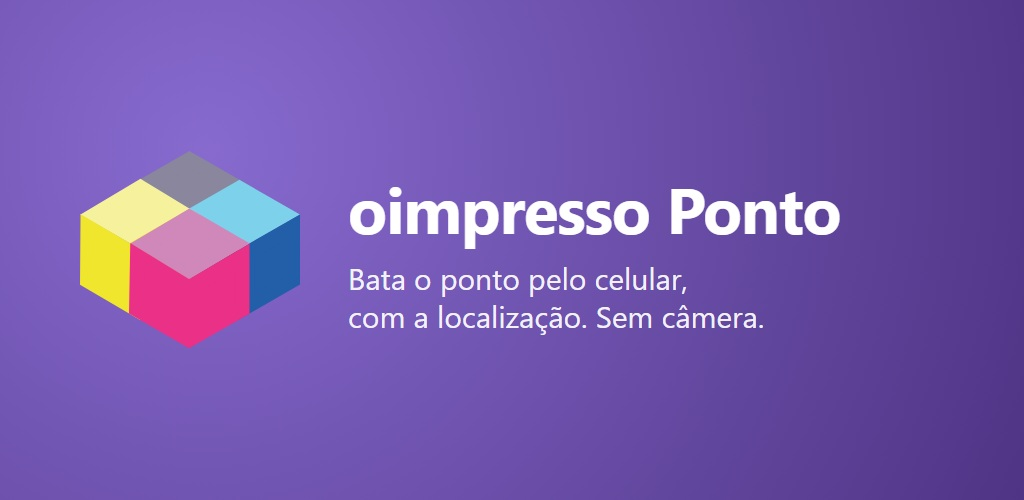
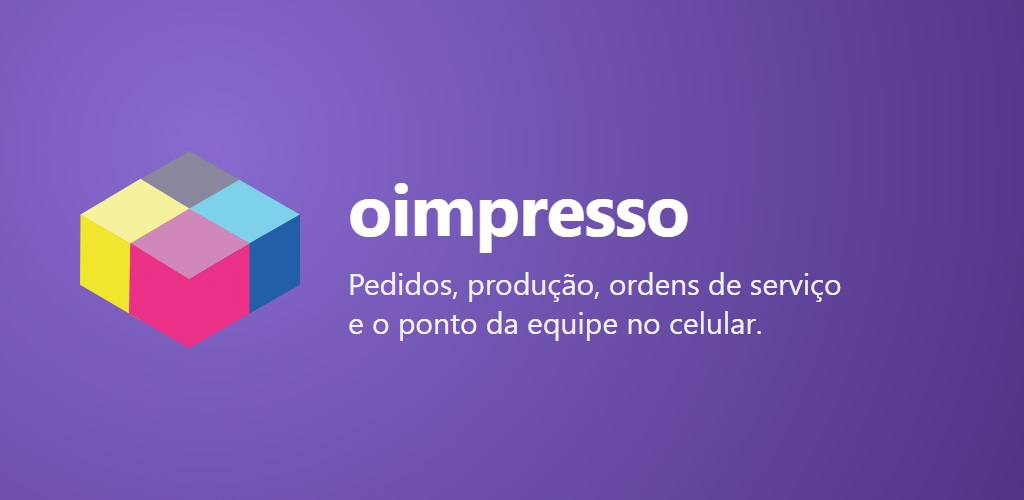
docs(mobile): textos e privacidade das lojas para o app único (ERP + ponto)
[W] 2026-10-01: o app das lojas junta o ERP no celular e o ponto. Nome "oimpresso",
descrições cobrindo os dois, Data Safety/App Privacy com fotos de OS, dados de clientes
e push; aponta expo-audio/expo-video sem uso para remover antes do build.

Changed region(s): [[0.3438, 0.54, 0.8438, 0.69], [0.3438, 0.36, 0.8438, 0.51]]

diff --git a/mobile/store-assets/textos/privacidade-lojas.md b/mobile/store-assets/textos/privacidade-lojas.md
@@ -1,45 +1,51 @@
-# oimpresso Ponto — Data Safety (Google) e App Privacy (Apple) · RASCUNHO
+# oimpresso — Data Safety (Google) e App Privacy (Apple) · RASCUNHO
 
-> Baseado no código em main (2026-10-01): `MobileMarcacaoController@registrar` recebe `lat`, `lng`, `accuracy`,
-> `device_uuid`, `timestamp_device`; grava latitude/longitude e o identificador do aparelho; a precisão é usada para
-> recusar sinal fraco e não é gravada (RUNBOOK-mobile §4). Sem câmera/biometria (ADR 0383).
-> ⚠ Confirmar com a sessão do APP CAPACITOR: há SDK de crash/analytics/push (Firebase)? Se houver, entra
-> "Diagnóstico" e, com push, "Identificadores do dispositivo" já cobre o token. Confirmar com a sessão LEGAL o prazo de guarda.
+> App único: ERP no celular + ponto ([W] 2026-10-01). Levantado do código em main (2026-10-01):
+> - Ponto (`MobileMarcacaoController@registrar`): `lat`, `lng`, `accuracy` (não gravada), `device_uuid`, `timestamp_device`.
+> - App Expo: login (`expo-secure-store`), push (`expo-notifications`, token do aparelho), fotos da galeria em OS
+>   (`expo-image-picker` em `app/oss/[id].tsx`), cadastro de clientes (nome, CPF/CNPJ, contato).
+> - `expo-audio` e `expo-video` estão no `package.json`/`app.config.ts` mas **nenhuma tela usa** — remover antes do build
+>   (a string de microfone em inglês é motivo de rejeição Apple 5.1.1 e obrigaria declarar "Áudio").
+> - ⚠ Confirmar no build: há SDK de crash/analytics? Se sim, entra "Diagnóstico". Prazo de guarda: sessão LEGAL.
 
-## Dados coletados
+## O que entra
 
-| Dado | Por quê | Obrigatório? | Ligado à pessoa? | Compartilhado? |
-|---|---|---|---|---|
-| Localização **precisa** (lat/lng) | registrar onde a marcação foi feita | sim | sim | não (vai ao empregador, que é o controlador — não conta como terceiro) |
-| ID do aparelho (`device_uuid` gerado pelo app) | impedir troca de aparelho / fraude | sim | sim | não |
-| Nome, e-mail/usuário, matrícula | login e identificação no espelho | sim (criado pela empresa) | sim | não |
-| Registros de ponto (horários) | finalidade principal | sim | sim | não |
-| Texto da justificativa | pedido ao gestor | não (opcional) | sim | não |
+| Dado | Onde | Obrigatório? | Finalidade |
+|---|---|---|---|
+| Localização precisa | ponto, só na batida | sim (para bater ponto) | funcionalidade; prevenção de fraude |
+| ID do aparelho (`device_uuid`) + token de push | ponto; notificações | sim | prevenção de fraude; funcionalidade |
+| Nome, e-mail, ID de usuário | login | sim | funcionalidade; gerenciamento de conta |
+| Dados de clientes da empresa (nome, CPF/CNPJ, telefone, e-mail, endereço) | cadastro de clientes | não (o usuário digita) | funcionalidade |
+| Fotos | anexos de OS, escolhidas pelo usuário | não | funcionalidade |
+| Registros de ponto, justificativas, notas de serviço, tarefas | ponto; OS; tarefas | varia | funcionalidade |
+| Transações da empresa (vendas, pagamentos) | vendas, financeiro | — | dado da empresa, não do usuário — ver nota abaixo |
 
-Coleta só **com o app aberto, no momento da batida** — sem localização em segundo plano.
+Tudo é ligado à pessoa, nada é vendido, usado para publicidade ou rastreamento. Os dados vão para o servidor do
+oimpresso (operador) por conta da empresa cliente (controladora). Sem localização em segundo plano.
 
 ## Google Play — Data Safety (tela a tela)
 1. **Coleta ou compartilha dados?** Sim.
-2. **Criptografado em trânsito?** Sim (HTTPS). **Usuário pode pedir exclusão?** Sim — link da página de exclusão (sessão PRIVACIDADE). Observação a declarar: registros de ponto são mantidos pelo prazo legal (Portaria MTP 671/2021).
-3. **Tipos de dados** — marcar:
-   - Localização → **Localização precisa** — Coletado · NÃO compartilhado · Obrigatório · Finalidade: **Funcionalidade do app** (e **Prevenção de fraude, segurança e conformidade**).
-   - Informações pessoais → **Nome**, **Endereço de e-mail**, **IDs de usuário** — Coletado · Obrigatório · Funcionalidade do app + Gerenciamento de conta.
-   - Identificadores do dispositivo ou outros → **ID do dispositivo** — Coletado · Obrigatório · Prevenção de fraude, segurança e conformidade.
-   - Atividade no app → **Outro conteúdo gerado pelo usuário** (justificativa) — Coletado · Opcional · Funcionalidade do app.
-   - **Não** marcar: fotos, áudio, contatos, financeiro, saúde, mensagens, histórico web, publicidade.
-4. **Processamento efêmero?** Não (é gravado).
-5. Política de privacidade: URL da sessão PRIVACIDADE.
-6. **Permissão de localização em segundo plano:** NÃO pedir (`ACCESS_BACKGROUND_LOCATION` fora do manifest) — assim não cai na declaração de localização em segundo plano.
+2. **Criptografado em trânsito?** Sim (HTTPS). **Pedido de exclusão?** Sim — URL da página de exclusão (sessão PRIVACIDADE); declarar que registros de ponto e fiscais são mantidos pelo prazo legal.
+3. **Tipos (todos: Coletado · NÃO compartilhado · não efêmero):**
+   - Localização → **Localização precisa** — Obrigatório · Funcionalidade do app; Prevenção de fraude, segurança e conformidade.
+   - Informações pessoais → **Nome**, **Endereço de e-mail**, **IDs de usuário** — Obrigatório · Funcionalidade; Gerenciamento de conta.
+   - Informações pessoais → **Número de telefone**, **Endereço**, **Outras informações** (CPF/CNPJ) — Opcional · Funcionalidade (dados dos clientes cadastrados).
+   - Fotos e vídeos → **Fotos** — Opcional · Funcionalidade.
+   - Atividade no app → **Outro conteúdo gerado pelo usuário** (justificativas, notas de OS, tarefas) — Opcional · Funcionalidade.
+   - Identificadores do dispositivo ou outros → **ID do dispositivo** — Obrigatório · Prevenção de fraude; Funcionalidade (push).
+   - Informações financeiras → ⚠ decidir com a sessão LEGAL: vendas e pagamentos são da **empresa**, não do usuário; "Histórico de compras" da Google é do usuário. Recomendação: não marcar, e explicar na política de privacidade.
+4. **Permissões:** `ACCESS_FINE_LOCATION` (sim), `ACCESS_BACKGROUND_LOCATION` (**não**), `POST_NOTIFICATIONS` (sim), `RECORD_AUDIO` (**remover**), `CAMERA` (não usado).
 
 ## Apple — App Privacy (tela a tela)
-1. **Coleta dados?** Sim.
-2. Tipos:
-   - **Location → Precise Location**: App Functionality · **Linked to the user** · **Not used for tracking**.
-   - **Identifiers → Device ID**: App Functionality · Linked · Not tracking.
-   - **Contact Info → Name, Email Address**: App Functionality · Linked · Not tracking.
-   - **User Content → Other User Content** (justificativa): App Functionality · Linked · Not tracking.
-3. **Tracking (ATT)?** Não — nenhum SDK de publicidade, sem prompt ATT.
-4. `Info.plist`: só `NSLocationWhenInUseUsageDescription` = "Usamos a localização somente quando você bate o ponto, para registrar onde a marcação foi feita." Sem `NSLocationAlways…`, sem `NSCameraUsageDescription`.
+Todos: **Linked to the user** · **Not used for tracking** · finalidade **App Functionality**.
+- Location → **Precise Location**
+- Contact Info → **Name**, **Email Address**, **Phone Number**, **Physical Address**
+- Identifiers → **User ID**, **Device ID**
+- User Content → **Photos or Videos**, **Other User Content**
+- Sensitive Info → não marcar (CPF/CNPJ não é "sensível" no sentido Apple: saúde, religião etc.).
+- **Tracking (ATT):** não. Sem prompt ATT.
 
-## Texto do pedido de permissão (Android e iOS — mesmo texto)
-"O oimpresso Ponto usa a localização somente no momento em que você bate o ponto, para registrar onde a marcação foi feita."
+`Info.plist` (via `app.config.ts`, sessão iOS):
+- `NSLocationWhenInUseUsageDescription`: "O oimpresso usa a localização somente quando você bate o ponto, para registrar onde a marcação foi feita."
+- `NSPhotoLibraryUsageDescription`: "O oimpresso acessa as suas fotos somente quando você escolhe uma imagem para anexar a uma ordem de serviço."
+- **Remover** `NSMicrophoneUsageDescription` (expo-audio sem uso).

diff --git a/mobile/store-assets/textos/listagem-pt-BR.md b/mobile/store-assets/textos/listagem-pt-BR.md
@@ -1,46 +1,48 @@
-# oimpresso Ponto — textos das lojas (pt-BR) · RASCUNHO para [W] revisar
+# oimpresso — textos das lojas (pt-BR) · RASCUNHO para [W] revisar
 
-> Limites conferidos em 2026-10-01 (Play Console Help + App Store Connect). Contagem de caracteres ao lado.
+> Escopo decidido por [W] em 2026-10-01: **um app só**, o ERP no celular (app Expo `mobile/`, `com.oimpresso.app`)
+> **junto com o ponto** (REP-P do `/ponto/mobile`). Limites conferidos em 2026-10-01 (Play Console Help + App Store Connect).
 > Não usar "certificado", "homologado" nem "assinado" até a sessão LEGAL confirmar (ADR 0413 tirou "assinada").
+> Só listar o que o build enviado faz de verdade — se o ponto ainda não estiver no build, tirar o bloco do ponto.
 
 ## Comum
-- **Nome do app:** `oimpresso Ponto` (15/30 — Play e Apple) — ⚠ a decidir com [W]: o app Expo (`com.oimpresso.app`) também tem pedidos, produção, oficina; se for publicado o app inteiro, o nome e a descrição mudam
+- **Nome do app:** `oimpresso` (9/30) — alternativa se o nome estiver ocupado na Apple: `oimpresso ERP` (13/30)
 - **Categoria:** Negócios (Play: Business · Apple: primária Business, secundária Productivity)
 - **Público:** adultos, uso profissional (B2B). Sem anúncios. Sem compras no app.
-- **Login exigido:** sim — conta criada pela empresa (empregador). Sem cadastro aberto.
+- **Login exigido:** sim — conta criada pela empresa. Sem cadastro aberto.
 
 ## Google Play
-- **Título:** `oimpresso Ponto` (15/30)
-- **Descrição curta (80):** `Bata o ponto pelo celular com a localização, no sistema da sua empresa.` (71/80)
+- **Título:** `oimpresso` (9/30)
+- **Descrição curta:** `Pedidos, produção, ordens de serviço e ponto da sua empresa no celular.` (71/80)
 - **Descrição completa (≤4000):**
 
-O oimpresso Ponto é o registro de ponto pelo celular para quem trabalha em empresas que usam o ERP oimpresso.
+O oimpresso é o ERP da sua empresa no celular. Acompanhe vendas, produção e ordens de serviço de onde estiver, e registre o ponto com a localização do aparelho.
 
-Use o login fornecido pela sua empresa e registre entrada, saída para o almoço, retorno e saída. Cada marcação é enviada junto com a localização do aparelho no momento do registro e recebe um número sequencial (NSR) gerado pelo servidor. Depois de feita, a marcação não pode ser alterada nem apagada.
+Gestão no celular:
+• Vendas, orçamentos e pedidos — consulte, acompanhe e faça uma venda rápida.
+• Produção — veja em que etapa está cada trabalho.
+• Ordens de serviço e manutenção — status, equipamentos e fotos do serviço.
+• Clientes e produtos — consulta e cadastro.
+• Estoque, financeiro, fiscal e relatórios — os números do dia na mão.
+• Tarefas e notificações da equipe.
 
-O que você pode fazer:
-• Bater o ponto: entrada, saída para almoço, retorno do almoço e saída.
-• Ver as marcações de hoje com o número de cada registro.
-• Consultar o seu espelho do mês: horas trabalhadas e o dia a dia.
-• Justificar uma falta, atraso ou esquecimento — o pedido vai para aprovação do seu gestor.
+Ponto pelo celular:
+• Bata o ponto: entrada, saída para almoço, retorno e saída. Cada marcação vai com a localização do aparelho no momento do registro e recebe um número sequencial (NSR) gerado pelo servidor; depois de feita, não pode ser alterada.
+• Veja as marcações de hoje e o seu espelho do mês.
+• Justifique uma falta ou esquecimento — o pedido vai para o seu gestor.
+• A localização é lida só quando você bate o ponto, com o app aberto. Sem rastreamento em segundo plano. Sem câmera e sem biometria no ponto.
 
-Privacidade e transparência:
-• A localização é lida somente no momento em que você bate o ponto, com o app aberto. Não há rastreamento em segundo plano.
-• Não usamos câmera, foto nem biometria.
-• Se o sinal de GPS estiver fraco, o app pede que você vá para uma área aberta em vez de registrar uma posição imprecisa.
-
-Para quem é: colaboradores de empresas clientes do oimpresso. O acesso é liberado pela empresa empregadora; não é possível criar conta pelo app.
+Para quem é: empresas clientes do oimpresso e seus colaboradores. O acesso é liberado pela empresa; não é possível criar conta pelo app. Cada pessoa vê só o que o seu perfil permite.
 
 ## Apple App Store
-- **Nome:** `oimpresso Ponto` (15/30)
-- **Subtítulo (30):** `Registro de ponto no celular` (28/30)
-- **Texto promocional (170, editável sem nova versão):** `Bata o ponto com a localização do aparelho, veja as marcações do dia e o espelho do mês. Sem câmera e sem biometria.` (116/170)
-- **Palavras-chave (100, separadas por vírgula, sem espaço):**
-  `ponto,eletrônico,registro,jornada,REP,colaborador,RH,horas,espelho,marcação,GPS,funcionário` (91/100)
+- **Nome:** `oimpresso` (9/30)
+- **Subtítulo (30):** `Gestão e ponto no celular` (25/30)
+- **Texto promocional (170):** `Vendas, produção, ordens de serviço e o ponto dos colaboradores no mesmo app. Ponto com localização, sem câmera e sem biometria.` (128/170)
+- **Palavras-chave (100):** `ERP,gestão,pedidos,orçamento,produção,OS,estoque,financeiro,ponto,REP,gráfica,oficina,vendas` (92/100)
 - **Descrição:** a mesma da Play acima.
-- **URL de suporte:** _(sessão PRIVACIDADE/PWA — aguardando)_ · **URL de privacidade:** _(idem)_
-- **Informações para revisão:** conta demo da sessão CONTA DEMO (usuário/senha ficam no campo do console, nunca neste arquivo) + nota: "O app exige localização; o revisor pode estar fora do local da empresa — a marcação será aceita e sinalizada para revisão do gestor."
+- **URL de suporte / privacidade:** _(sessão PRIVACIDADE/PWA — aguardando)_
+- **Informações para revisão:** conta demo da sessão CONTA DEMO (credencial só no campo do console). Nota: "Acesso B2B criado pela empresa. A tela de ponto pede localização; fora do local da empresa a marcação é aceita e sinalizada para o gestor."
 
 ## Classificação etária
-- **Apple (sistema 2025, faixas 4+/9+/13+/16+/18+):** responder "Nenhum" em todo o questionário → **4+**. Marcar que o app NÃO tem chat/conteúdo gerado por usuários públicos, nem navegador web irrestrito.
-- **Google (IARC):** categoria "Referência, notícias ou educação"? **Não** — escolher "Todos os outros tipos de app". Respostas "Não" a violência, sexualidade, linguagem, drogas, jogos de azar, compartilhamento de localização com OUTROS usuários (a localização vai só para o empregador — responder "Não" a "compartilha a localização física do usuário com outros usuários"). Resultado esperado: **Livre (L)** / PEGI 3 / ESRB Everyone.
+- **Apple (faixas 4+/9+/13+/16+/18+):** "Nenhum" em todo o questionário → **4+**. ⚠ Se a aba **Chat** passar a trocar mensagens entre pessoas, responder "Sim" a comunicação entre usuários (pode subir a faixa) — hoje o chat é com o sistema.
+- **Google (IARC):** "Todos os outros tipos de app"; "Não" a violência, sexo, linguagem, drogas, jogos de azar; "Não" a compartilhar localização com outros usuários (vai só ao empregador); interação entre usuários conforme o Chat acima. Esperado: **Livre (L)**.

diff --git a/mobile/store-assets/README.md b/mobile/store-assets/README.md
@@ -1,5 +1,7 @@
 # Ativos de loja — app oimpresso (Expo, `mobile/`)
 
+App único nas lojas: o ERP no celular **junto com o ponto** ([W] 2026-10-01). Nome proposto: `oimpresso`.
+
 Gerados por `node mobile/store-assets/gerar-ativos.mjs` (da raiz do repo) a partir do cubo CMYK do Design
 System e do roxo `oklch(0.55 0.15 295)` = `#795BBF`. Ícone escolhido por [W] em 2026-10-01: **variante A** (só o cubo).
 Para mudar a arte, mude o script e rode de novo — não edite os PNGs à mão.
